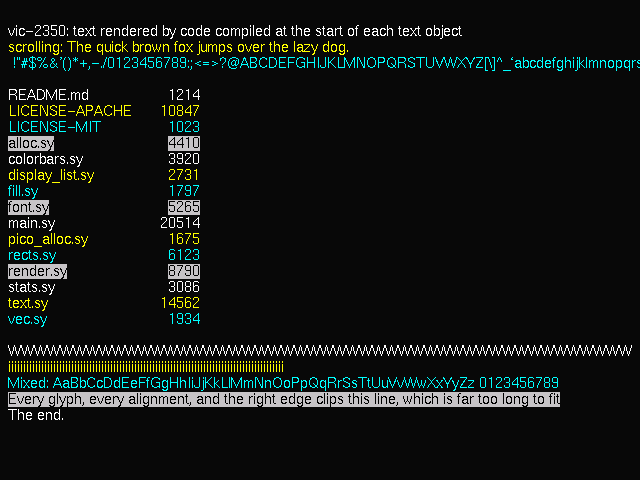
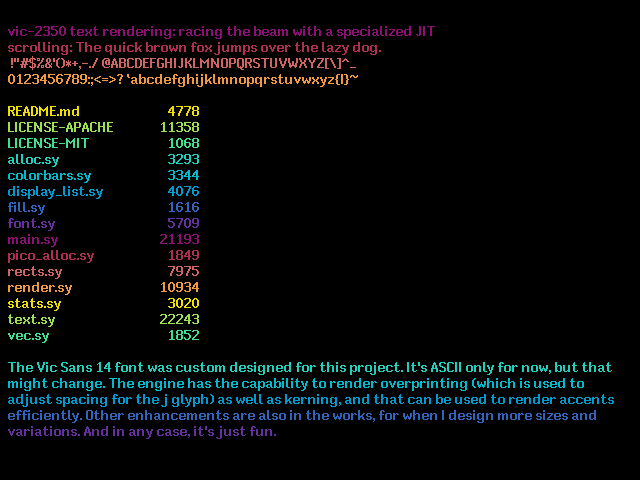
Improve font showing
Add a specimen to the font's README. Also reword textdemo and make it
rainbow.

Minor tweak to build script to eliminate the need for pioasm (which had
a path specific to my setup). The output of that is checked in, and it
will be relatively rare to need to rebuild it.

Done with a bit of Claude help but mostly by hand.

Changed region(s): [[0.0, 0.0312, 1.0, 0.9062], [0.8125, 0.125, 1.0, 0.1562], [0.6562, 0.125, 0.7812, 0.1562]]

diff --git a/tools/kernview.py b/tools/kernview.py
@@ -4,14 +4,15 @@
 
 """Preview a .kbitx font's kerning from a .kern file, as text.sy sets it.
 
-Usage: kernview.py FONT KERN [-c] [--pairs] [--png OUT] [TEXT...]
+Usage: kernview.py FONT KERN [-c] [--pairs] [--png OUT [--margin N]] [TEXT...]
 
 Draws each TEXT (or a few test lines) in the terminal with half block
 characters, a pixel per column and two rows per line, with the kern
 amounts marked under the gaps they close. -c draws each line unkerned
 above it. --pairs lists every kerned pair with the blank columns left
 between it, and the problems kbitx2font.py would refuse. --png writes the
-lines to an image as well, each pixel SCALE square.
+lines to an image as well, each pixel SCALE square, with N blank pixels
+around them.
 """
 
 import argparse
@@ -69,14 +70,19 @@ def terminal(rows):
     return "\n".join(out)
 
 
-def write_png(path, images, scale):
-    width = max(len(r[0]) for r in images) * scale
-    pixels = []
-    for rows in images:
-        for row in rows + [[False] * len(rows[0])] * 3:
-            line = bytes(0 if on else 255 for on in row for _ in range(scale))
+def write_png(path, images, scale, margin):
+    width = (max(len(r[0]) for r in images) + 2 * margin) * scale
+    blank = bytes([255]) * width
+    pixels = [blank] * (margin * scale)
+    for i, rows in enumerate(images):
+        if i:
+            pixels += [blank] * (3 * scale)
+        for row in rows:
+            line = bytes([255]) * (margin * scale)
+            line += bytes(0 if on else 255 for on in row for _ in range(scale))
             line += bytes([255]) * (width - len(line))
             pixels += [line] * scale
+    pixels += [blank] * (margin * scale)
     raw = b"".join(b"\0" + line for line in pixels)
 
     def chunk(kind, data):
@@ -98,6 +104,7 @@ def main():
     parser.add_argument("--pairs", action="store_true", help="list the kerned pairs")
     parser.add_argument("--png", help="write the lines to this image")
     parser.add_argument("--scale", type=int, default=3)
+    parser.add_argument("--margin", type=int, default=0)
     args = parser.parse_args()
 
     glyphs = kf.load_font(args.font)
@@ -129,7 +136,7 @@ def main():
             if kerned:
                 print(marks)
     if args.png:
-        write_png(args.png, images, args.scale)
+        write_png(args.png, images, args.scale, args.margin)
 
 
 if __name__ == "__main__":

diff --git a/fonts/README.md b/fonts/README.md
@@ -4,4 +4,6 @@ The Vic Sans font is custom designed for this project. Font sources are in [Bits
 
 The kerning data for the font is in vic-sans-14.kern, a separate file.
 
+![A showing of the font](vic-sans-14.png)
+
 [Bits'N'Picas]: https://github.com/kreativekorp/bitsnpicas
